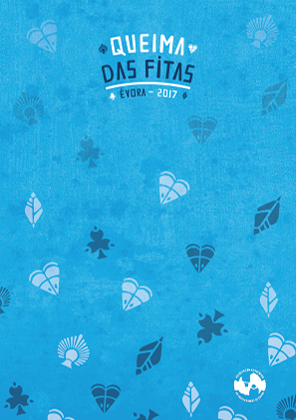
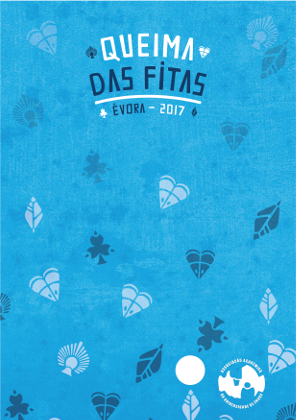
novo fundo

diff --git a/cred.py b/cred.py
@@ -298,15 +298,15 @@ class Application(Frame):
             x=298
             y=0
         posx=147
-        posy=275
+        posy=270
         printready=PdfFileReader(fname,'rb')
         page1=printready.getPage(0)
         self.c.setStrokeColorRGB(1,1,1)
         self.c.drawImage(fundo,x,y)
         self.c.setFillColorRGB(1,1,1)
-        self.c.rect(x+30,y+164,237,20, fill=1)             #caixa para o nome
+        self.c.rect(x+30,y+160,237,20, fill=1)             #caixa para o nome
         self.c.rect(x+30,y+116,237,20, fill=1)             #caixa para o bi/cc/Matricula
-        self.c.rect(x+147,y+206,120,20, fill=1)            #caixa para tipo de utilizador
+        self.c.rect(x+147,y+200,120,20, fill=1)            #caixa para tipo de utilizador
         self.c.rect(x+30,y+24,100,18, fill=1)             #caixa para o codigo alfanumerico
         self.c.setFont("Helvetica-Bold", 12)
         for i in self.grupos:
@@ -315,8 +315,8 @@ class Application(Frame):
                     self.c.setFillColorRGB(0.14,0.48,0.63)
                     self.c.setStrokeColorRGB(0.14,0.48,0.63)
                 elif i==2:
-                    self.c.setFillColorRGB(0.29,0.49,0.35)
-                    self.c.setStrokeColorRGB(0.29,0.49,0.35)
+                    self.c.setFillColorRGB(1,0,0)
+                    self.c.setStrokeColorRGB(1,0,0)
                 elif i==3:
                     self.c.setFillColorRGB(0.6,0.77,0.24)
                     self.c.setStrokeColorRGB(0.6,0.77,0.24)
@@ -363,9 +363,8 @@ class Application(Frame):
                 pass
             else:
                 self.c.setStrokeColorRGB(1,1,1)
-                self.c.setFillColorRGB(1,1,1)
-                self.c.rect(x+30,y+206,87,105,fill=1)              #caixa para a foto
-                self.c.drawImage(self.foto,x+30,y+206)
+                self.c.setFillColorRGB(1,1,1)           #caixa para a foto
+                self.c.drawImage(self.foto,x+30,y+195)
         else:
             self.c.drawString(x+33,y+138,'BI/CC:')
 
@@ -378,12 +377,12 @@ class Application(Frame):
         self.c.drawImage('qrtemp.png',x+47,y+37)
         self.c.drawCentredString(x+80,y+28,self.codalfa.upper())
 
-        self.c.drawString(x+33,y+186,'Nome:')
+        self.c.drawString(x+33,y+183,'Nome:')
         self.c.setFont("Helvetica-Bold", 14)
 
-        self.c.drawString(x+35,y+168,self.nome.get().upper())
+        self.c.drawString(x+35,y+164,self.nome.get().upper())
         self.c.drawString(x+35,y+120,self.bi.get())
-        self.c.drawCentredString(x+207,y+210,self.listusr.get().upper())
+        self.c.drawCentredString(x+207,y+204,self.listusr.get().upper())
         self.c.showPage()
         self.c.save()
         temp=PdfFileReader(open('credsA4/Credencialtemp.pdf','rb'))
@@ -391,16 +390,7 @@ class Application(Frame):
         page1.mergePage(page2)
         output=PdfFileWriter()
         output.addPage(page1)
-        self.backtemp=canvas.Canvas('credsA4/backtemp.pdf')
-        self.backtemp.drawImage('credback.png',x,y)
-        self.backtemp.showPage()
-        self.backtemp.save()
-        backpage2=PdfFileReader(open('credsA4/backtemp.pdf','rb'))
-        backpage1=printready.getPage(1)
-        backpage1.mergePage(backpage2.getPage(0))
-        output.addPage(backpage1)
         os.unlink('credsA4/Credencialtemp.pdf')
-        os.unlink('credsA4/backtemp.pdf')
         countmerged+=1
         output.write(open('credsA4/Credencial'+str(countfiles+1)+'.pdf','wb'))
         open('cnt1','w').write(str(countmerged))

diff --git a/setup.py b/setup.py
@@ -1,0 +1,8 @@
+import sys
+from cx_Freeze import setup, Executable
+build_exe_options={"packages":["PyPDF2","tkinter","reportlab","random","PIL","os","pyqrcode","sqlite3"],"include_files":["cnt1","cnt2","fundo1.png","logo.png"]}
+setup(
+    name = "Credenciais",
+    version = "1",
+    options = {"build_exe":build_exe_options},
+    executables = [Executable("cred.py")])
